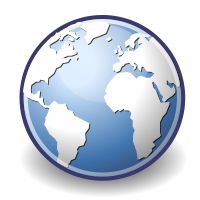
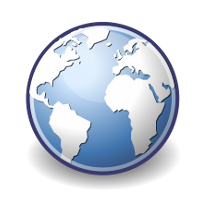
[VideoMonkey Plugin] - fixed: youtube and dailymotion regexes (only english cfgs tested) - fixed: xbmc.translatePath() now around all local paths - modified: globe image - added: context and discard options (incomplete)

Changed region(s): [[0.09, 0.06, 0.93, 0.99], [0.51, 0.42, 0.54, 0.48]]

diff --git a/plugins/video/VideoMonkey/videomonkey.py b/plugins/video/VideoMonkey/videomonkey.py
@@ -9,7 +9,9 @@ import cookielib, htmlentitydefs
 import socket, base64
 
 rootDir = os.getcwd()
-if rootDir[-1] == ';':rootDir = rootDir[0:-1]
+if rootDir[-1] == ';':
+    rootDir = rootDir[0:-1]
+rootDir = xbmc.translatePath(rootDir)
 cacheDir = os.path.join(rootDir, 'cache')
 resDir = os.path.join(rootDir, 'resources')
 imgDir = os.path.join(resDir, 'images')
@@ -479,6 +481,8 @@ class CRuleItem:
         self.infos = ''
         self.order = ''
         self.skill = ''
+        self.context = ''
+        self.discard = ''
         self.curr = ''
         self.info_list = []
         self.url_build = ''
@@ -510,6 +514,7 @@ class CCurrentList:
         self.sort = 'label'
         self.cfg = ''
         self.skill = ''
+        self.context = ''
         self.reference = ''
         self.content = ''
         self.catcher = []
@@ -534,7 +539,7 @@ class CCurrentList:
         for attempt in range(attempts):
             filename = ''.join([random.choice(chars) for i in range(length)])
             filename = prefix + filename + suffix
-            if not os.path.exists(os.path.join(dir, filename)):
+            if not os.path.isfile(os.path.join(xbmc.translatePath(dir), filename)):
                 return filename
 
     def videoCount(self):
@@ -615,8 +620,9 @@ class CCurrentList:
         firstInfo = True
         for info_name in item.infos_names:
             if info_idx != url_idx and item.infos_names[info_idx].find('.once') == -1:
-                #info_value = urllib.quote(item.infos_values[info_idx])
                 info_value = item.infos_values[info_idx]
+                if info_value == '':
+                    info_value = '...'
                 if firstInfo:
                     firstInfo = False
                     url = smart_unicode(item.infos_names[info_idx]) + ':' + smart_unicode(info_value)
@@ -643,9 +649,13 @@ class CCurrentList:
         for info_name_value in infos_names_values:
             sep_index = info_name_value.find(':')
             if sep_index != -1:
-                item.infos_names.append(info_name_value[:sep_index])
-                #item.infos_values.append(clean_safe(urllib.unquote(info_name_value[sep_index+1:])))
-                item.infos_values.append(clean_safe(info_name_value[sep_index+1:]))
+                if info_name_value[:sep_index] == 'context':
+                    self.context = info_name_value[sep_index+1:]
+                    if enable_debug:
+                        xbmc.output('Current context: ' + str(self.context))
+                else:
+                    item.infos_names.append(info_name_value[:sep_index])
+                    item.infos_values.append(clean_safe(info_name_value[sep_index+1:]))
         try:
             type_idx = item.infos_names.index('type')
         except:
@@ -763,6 +773,7 @@ class CCurrentList:
             try:
                 lItem.infos_values[lItem.infos_names.index(strin)] = self.cfg
             except:
+                self.context = 'start'
                 lItem.infos_names.append('cfg')
                 lItem.infos_values.append(self.cfg)
         del self.items[:]
@@ -822,6 +833,10 @@ class CCurrentList:
                         rule_tmp.order = value
                     elif key == 'item_skill':
                         rule_tmp.skill = value
+                    elif key == 'item_context':
+                        rule_tmp.context = value
+                    elif key == 'item_discard':
+                        rule_tmp.discard = value
                     elif key == 'item_curr':
                         rule_tmp.curr = value
                     elif key == 'item_info_name':
@@ -841,6 +856,8 @@ class CCurrentList:
                         rule_tmp.info_list.append(info_tmp)
                     elif key == 'item_url_build':
                         rule_tmp.url_build = value
+                        if (rule_tmp.discard != '' and self.context.find(rule_tmp.discard) != -1) or (rule_tmp.context != '' and self.context.find(rule_tmp.context) == -1):
+                            continue
                         self.rules.append(rule_tmp)
                     elif key == 'title':
                         tmp = CListItem()
@@ -983,6 +1000,9 @@ class CCurrentList:
                 else:
                     tmp.infos_names.append(item_rule.order)
                     tmp.infos_values.append(reinfos)
+                if item_rule.skill.find('keep') != -1:
+                    tmp.infos_names.append('context')
+                    tmp.infos_values.append(self.context)
                 for info in item_rule.info_list:
                     info_value = ''
                     try:
@@ -1317,7 +1337,7 @@ class Main:
             title = videoItem.infos_values[videoItem.infos_names.index('title')]
         except:
             title = '...'
-        if not os.path.exists(icon):
+        if not os.path.isfile(icon):
             try:
                 urllib.urlretrieve(icon, os.path.join(cacheDir, 'thumb.tbn'))
                 icon = os.path.join(cacheDir, 'thumb.tbn')
@@ -1376,7 +1396,7 @@ class Main:
     def downloadMovie(self, url, title):
         if enable_debug:
             xbmc.output('Trying to download video ' + str(url))
-        file_path = os.path.join(xbmcplugin.getSetting('download_Path'), title + self.videoExtension)
+        file_path = os.path.join(xbmc.translatePath(xbmcplugin.getSetting('download_Path')), title + self.videoExtension)
         if os.path.isfile(file_path):
             file_path = self.currentlist.randomFilename(prefix = file_path[:file_path.rfind('.')] + '_', suffix = self.videoExtension)
         try:
@@ -1386,7 +1406,7 @@ class Main:
             return file_path
         except IOError:
             title = first_clean_filename(title)
-            file_path = os.path.join(xbmcplugin.getSetting('download_Path'), title + self.videoExtension)
+            file_path = os.path.join(xbmc.translatePath(xbmcplugin.getSetting('download_Path')), title + self.videoExtension)
             if os.path.isfile(file_path):
                 file_path = self.currentlist.randomFilename(prefix = file_path[:file_path.rfind('.')] + '_', suffix = self.videoExtension)
             try:
@@ -1396,7 +1416,7 @@ class Main:
                 return file_path
             except IOError:
                 title = second_clean_filename(title)
-                file_path = os.path.join(xbmcplugin.getSetting('download_Path'), title + self.videoExtension)
+                file_path = os.path.join(xbmc.translatePath(xbmcplugin.getSetting('download_Path')), title + self.videoExtension)
                 if os.path.isfile(file_path):
                     file_path = self.currentlist.randomFilename(prefix = file_path[:file_path.rfind('.')] + '_', suffix = self.videoExtension)
                 try:
@@ -1406,7 +1426,7 @@ class Main:
                     return file_path
                 except IOError:
                     title = third_clean_filename(title)
-                    file_path = os.path.join(xbmcplugin.getSetting('download_Path'), title + self.videoExtension)
+                    file_path = os.path.join(xbmc.translatePath(xbmcplugin.getSetting('download_Path')), title + self.videoExtension)
                     if os.path.isfile(file_path):
                         file_path = self.currentlist.randomFilename(dir = xbmcplugin.getSetting('download_Path'), suffix = self.videoExtension)
                     try:
@@ -1416,7 +1436,7 @@ class Main:
                         return file_path
                     except IOError:
                         title = self.currentlist.randomFilename()
-                        file_path = os.path.join(xbmcplugin.getSetting('download_Path'), title + self.videoExtension)
+                        file_path = os.path.join(xbmc.translatePath(xbmcplugin.getSetting('download_Path')), title + self.videoExtension)
                         if os.path.isfile(file_path):
                             file_path = self.currentlist.randomFilename(prefix = file_path[:file_path.rfind('.')] + '_', suffix = self.videoExtension)
                         try:
@@ -1526,7 +1546,7 @@ class Main:
 
     def addListItem(self, title, url, icon, totalItems, lItem, isDir = True, noCallback = False):
         u = sys.argv[0] + '?url=' + url
-        if os.path.exists(os.path.join(imgDir, icon)):
+        if os.path.isfile(os.path.join(imgDir, icon)):
             icon = os.path.join(imgDir, icon)
         liz = xbmcgui.ListItem(title, title, icon, icon)
         if isDir and self.currentlist.getFileExtension(url) == 'videomonkey' and self.currentlist.skill.find('nodownload') == -1:
@@ -1593,7 +1613,7 @@ class Main:
                     os.mkdir(cacheDir)
                     if enable_debug:
                         xbmc.output('Cache directory created')
-                if not os.path.exists(xbmcplugin.getSetting('download_Path')):
+                if not os.path.exists(xbmc.translatePath(xbmcplugin.getSetting('download_Path'))):
                     try:
                         if enable_debug:
                             xbmc.output('Creating download directory ' + str(xbmcplugin.getSetting('download_Path')))

diff --git a/plugins/video/VideoMonkey/default.py b/plugins/video/VideoMonkey/default.py
@@ -7,7 +7,7 @@ __author__ = 'sfaxman'
 __url__ = 'http://code.google.com/p/xbmc-addons/'
 __svn_url__ = 'http://xbmc-addons.googlecode.com/svn/trunk/plugins/video/VideoMonkey/'
 __credits__ = 'sfaxman'
-__version__ = '1.30'
+__version__ = '1.31'
 
 rootDir = os.getcwd()
 if rootDir[-1] == ';':rootDir = rootDir[0:-1]
